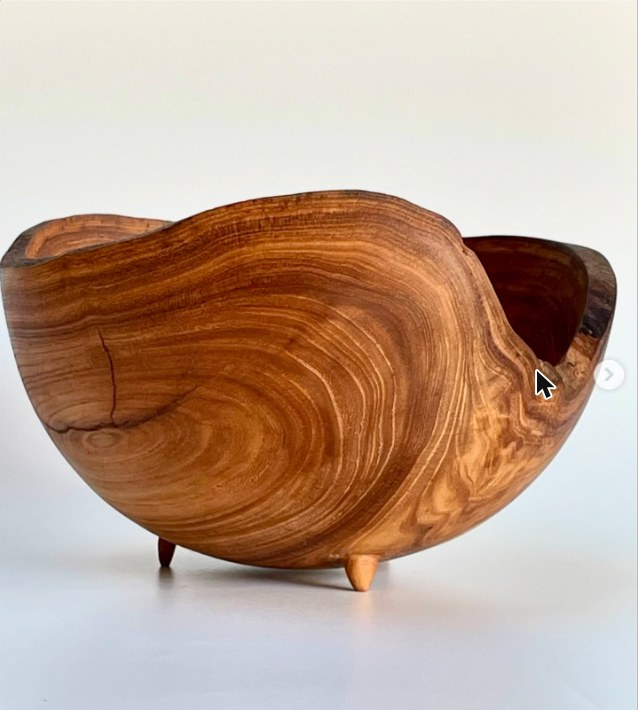
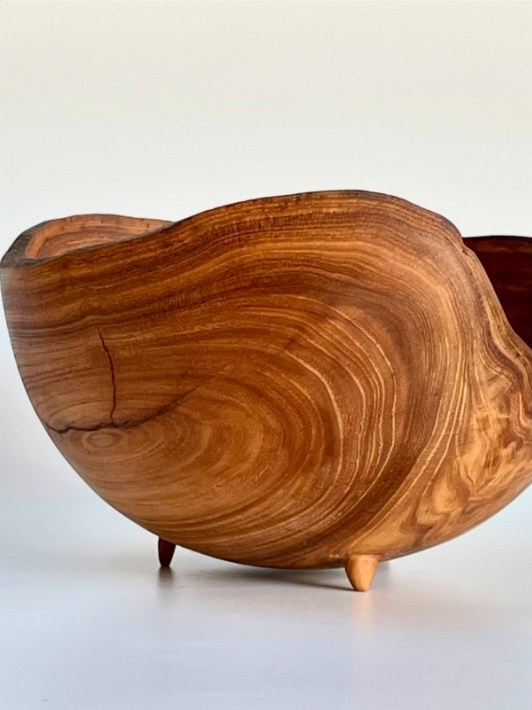
Maestros: Lucas Del Giudice, sección «Las otras maderas» y fotos sin cursor ni flecha de Instagram
Claude-Session: https://claude.ai/code/session_012RZ1FQC7hJJ5UFZCNqNT2o

Changed region(s): [[0.0, 0.0, 1.0, 0.8676], [0.9925, 0.8366, 1.0, 0.8676]]

diff --git a/maestros_lucas_del_giudice.html b/maestros_lucas_del_giudice.html
@@ -116,7 +116,7 @@
       <p>Solíamos desayunar juntos en algún café casi todas las veces que teníamos que hacer alguna instalación de muebles, y esas charlas fueron siempre maravillosas. Supongo entonces, releyendo lo que yo mismo escribo, que un gran maestro de cualquier tópico debe ser también una persona que te inspire admiración, o por lo menos respeto, en otras cosas de la vida. Y eso fue Tom para mí: un maestro y también un gran amigo.»</p>
     </blockquote>
     <figure class="obra">
-      <img loading="lazy" src="img/lucas-del-giudice-sierra.jpg" width="561" height="710" alt="Una sierra de brazo radial montada sobre una mesa metálica, en la entrada de un taller, con tablas apoyadas contra la pared.">
+      <img loading="lazy" src="img/lucas-del-giudice-sierra.jpg" width="494" height="710" alt="Una sierra de brazo radial montada sobre una mesa metálica, en la entrada de un taller, con tablas apoyadas contra la pared.">
       <figcaption>La sierra que volvió a su taller en 2026, casi veinte años después de haberla cambiado por otra máquina. Foto: Instagram de Lucas Del Giudice.</figcaption>
     </figure>
   </article>
@@ -129,19 +129,23 @@
       <p>La madera de <a href="#g-olmo" class="rs-g">olmo</a> me gusta mucho, sobre todo porque la que uso es juntada de podas o extracciones de árboles de la vía pública. Me produce una enorme satisfacción poder recuperar esas maravillosas maderas, y siento que estoy haciendo algo bien, aunque sea un poquito: es mi parte. Tengo una relación muy especial con los árboles, y será por eso que mi taller está lleno de recortes de los que no me puedo deshacer. Le dedico mucho tiempo antes de cortarla: la elijo, la miro, la pienso. Y casi siempre me gusta cómo la pude aprovechar mejor.»</p>
     </blockquote>
     <figure class="obra">
-      <img loading="lazy" src="img/lucas-del-giudice-banqueta-olmo.jpg" width="608" height="710" alt="Dos banquetas de madera clara con asiento redondeado y patas torneadas unidas por travesaños; la más baja adelante, sobre un piso de cemento.">
+      <img loading="lazy" src="img/lucas-del-giudice-banqueta-olmo.jpg" width="517" height="710" alt="Dos banquetas de madera clara con asiento redondeado y patas torneadas unidas por travesaños; la más baja adelante, sobre un piso de cemento.">
       <figcaption>Banqueta de olmo rescatado, la primera que hizo con espiga cónica de 3°. Foto: Instagram de Lucas Del Giudice, marzo de 2025.</figcaption>
     </figure>
     <figure class="obra">
-      <img loading="lazy" src="img/lucas-del-giudice-banquetas-corazon.jpg" width="611" height="710" alt="Banquetas altas de madera con asiento en forma de corazón, agrupadas junto a una puerta de madera.">
+      <img loading="lazy" src="img/lucas-del-giudice-banquetas-corazon.jpg" width="521" height="710" alt="Banquetas altas de madera con asiento en forma de corazón, agrupadas junto a una puerta de madera.">
       <figcaption>Banquetas «corazón» de olmo, con madera que él mismo juntó, cortó, transportó y dejó secar unos dos años. Foto: Instagram de Lucas Del Giudice, febrero de 2026.</figcaption>
     </figure>
     <figure class="obra">
-      <img loading="lazy" src="img/lucas-del-giudice-cuenco-horqueta.jpg" width="638" height="710" alt="Cuenco de madera de borde irregular, con los anillos de crecimiento a la vista en el frente y tres patitas talladas.">
+      <img loading="lazy" src="img/lucas-del-giudice-cuenco-horqueta.jpg" width="532" height="710" alt="Cuenco de madera de borde irregular, con los anillos de crecimiento a la vista en el frente y tres patitas talladas.">
       <figcaption>De su publicación sobre una horqueta de olmo que apartó mientras hacía leña, y en la que contó 32 anillos. Foto: Instagram de Lucas Del Giudice, junio de 2024.</figcaption>
     </figure>
   </article>
 
+  <div class="tm-etiqueta">Las otras maderas</div>
+  <article>
+    <p>Al leer esta entrevista antes de publicarla, Lucas pidió agregar algo: además del olmo que rescata, trabaja con muchas maderas compradas que vienen de montes nativos, y eso le preocupa. Para él, lo importante es minimizar los desperdicios y honrar al árbol con un buen trabajo.</p>
+  </article>
   <div class="tm-etiqueta">Aprender y enseñar</div>
   <article>
     <p class="pregunta">Si hoy empezaras de cero, viniendo tarde y de otra disciplina, ¿cómo buscarías con quién aprender? ¿Y dónde das tus talleres?</p>
